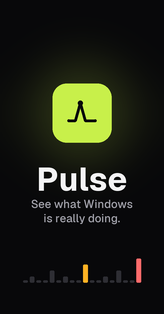
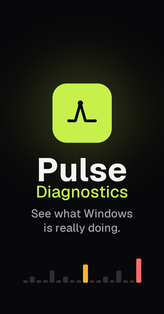
feat: rename the app to Pulse Diagnostics
Pulse Diagnostics is already the Microsoft Store name. The GitHub edition
now uses it too: window and title bar, tray menu, Settings > About, PDF
report header, file metadata (Task Manager), the service display name
(Pulse Diagnostics Service), the installer, its shortcuts and the release
file names (PulseDiagnostics-Setup-<version>-windows-x64.exe).

Internal names stay: Pulse.exe, PulseService, the pipe, ProgramData\Pulse
and the export folders, so upgrades keep settings and history. Setup keeps
the old install folder and removes the old "Pulse" shortcuts only when
they open this install.

Changed region(s): [[0.1829, 0.4873, 0.8232, 0.7452]]

diff --git a/apps/pulse_app/lib/application/background_mode_controller.dart b/apps/pulse_app/lib/application/background_mode_controller.dart
@@ -5,6 +5,7 @@ import 'package:flutter/foundation.dart';
 import 'package:flutter/services.dart';
 import 'package:local_notifier/local_notifier.dart';
 import 'package:path/path.dart' as p;
+import 'package:pulse_protocol/pulse_constants.dart';
 import 'package:pulse_protocol/pulse_wire.dart';
 import 'package:tray_manager/tray_manager.dart';
 import 'package:window_manager/window_manager.dart';
@@ -207,7 +208,7 @@ class BackgroundModeController extends ChangeNotifier
       trayManager.addListener(this);
       final icon = _resolveTrayIconPath();
       await trayManager.setIcon(icon);
-      await trayManager.setToolTip('Pulse Diagnostics');
+      await trayManager.setToolTip(kProductName);
       await _rebuildTrayMenu();
       _trayReady = true;
     } catch (e) {
@@ -247,7 +248,7 @@ class BackgroundModeController extends ChangeNotifier
     if (!Platform.isWindows) return;
     final menu = Menu(
       items: [
-        MenuItem(key: 'open', label: 'Open Pulse'),
+        MenuItem(key: 'open', label: 'Open $kProductName'),
         MenuItem.separator(),
         MenuItem(key: 'dashboard', label: 'Dashboard'),
         MenuItem(key: 'health', label: 'System Health'),
@@ -269,7 +270,7 @@ class BackgroundModeController extends ChangeNotifier
           checked: settings.backgroundMode,
         ),
         MenuItem.separator(),
-        MenuItem(key: 'exit', label: 'Exit Pulse'),
+        MenuItem(key: 'exit', label: 'Exit $kProductName'),
       ],
     );
     try {

diff --git a/apps/pulse_app/lib/main.dart b/apps/pulse_app/lib/main.dart
@@ -3,6 +3,7 @@ import 'dart:ui';
 import 'package:flutter/material.dart';
 import 'package:flutter_acrylic/flutter_acrylic.dart';
 import 'package:provider/provider.dart';
+import 'package:pulse_protocol/pulse_constants.dart';
 import 'package:window_manager/window_manager.dart';
 
 import 'app/pulse_app.dart';
@@ -25,10 +26,10 @@ Future<void> main(List<String> args) async {
     backgroundColor: Colors.transparent,
     skipTaskbar: false,
     titleBarStyle: TitleBarStyle.hidden,
-    title: 'Pulse',
+    title: kProductName,
     windowButtonVisibility: false,
   );
-  await windowManager.setTitle('Pulse');
+  await windowManager.setTitle(kProductName);
   await windowManager.waitUntilReadyToShow(windowOptions);
 
   final services = await AppServices.create();

diff --git a/apps/pulse_app/lib/presentation/components/pulse_title_bar.dart b/apps/pulse_app/lib/presentation/components/pulse_title_bar.dart
@@ -1,5 +1,6 @@
 import 'package:flutter/material.dart';
 import 'package:lucide_icons_flutter/lucide_icons.dart';
+import 'package:pulse_protocol/pulse_constants.dart';
 import 'package:window_manager/window_manager.dart';
 
 import '../../app/theme/pulse_theme.dart';
@@ -78,7 +79,7 @@ class _PulseTitleBarState extends State<PulseTitleBar> with WindowListener {
         child: Row(
           children: [
             Text(
-              'Pulse',
+              kProductName,
               style: Theme.of(context).textTheme.labelMedium?.copyWith(
                     color: _focused
                         ? PulseTokens.textSecondary

diff --git a/apps/pulse_app/lib/app/pulse_app.dart b/apps/pulse_app/lib/app/pulse_app.dart
@@ -1,5 +1,6 @@
 import 'package:flutter/material.dart';
 import 'package:provider/provider.dart';
+import 'package:pulse_protocol/pulse_constants.dart';
 
 import '../application/settings_controller.dart';
 import '../presentation/onboarding/welcome_page.dart';
@@ -25,7 +26,7 @@ class PulseApp extends StatelessWidget {
     final dark = PulseTheme.dark(accent: accent);
 
     return MaterialApp(
-      title: 'Pulse',
+      title: kProductName,
       debugShowCheckedModeBanner: false,
       theme: light,
       darkTheme: dark,

diff --git a/apps/pulse_app/lib/presentation/components/pulse_nav_rail.dart b/apps/pulse_app/lib/presentation/components/pulse_nav_rail.dart
@@ -1,5 +1,6 @@
 import 'package:flutter/material.dart';
 import 'package:flutter_svg/flutter_svg.dart';
+import 'package:pulse_protocol/pulse_constants.dart';
 
 import '../../app/theme/pulse_theme.dart';
 import 'safe_hover.dart';
@@ -66,7 +67,7 @@ class PulseNavRail extends StatelessWidget {
       child: Column(
         children: [
           Semantics(
-            label: 'Pulse',
+            label: kProductName,
             image: true,
             child: Container(
               width: _markTileSize,

diff --git a/apps/pulse_app/lib/presentation/settings/settings_page.dart b/apps/pulse_app/lib/presentation/settings/settings_page.dart
@@ -1070,7 +1070,7 @@ class _SettingsPageState extends State<SettingsPage> {
             children: [
               _SettingsRow(
                 icon: LucideIcons.info,
-                title: 'Pulse version',
+                title: '$kProductName version',
                 subtitle: kAppVersion,
                 trailing: const PulseBadge(
                   label: 'Bootstrap',

diff --git a/apps/pulse_app/lib/presentation/reports/report_exporter.dart b/apps/pulse_app/lib/presentation/reports/report_exporter.dart
@@ -236,7 +236,7 @@ class ReportExporter {
           crossAxisAlignment: pw.CrossAxisAlignment.start,
           children: [
             pw.Text(
-              'Pulse',
+              kProductName,
               style: pw.TextStyle(
                 fontSize: 11,
                 fontWeight: pw.FontWeight.bold,

diff --git a/shared/pulse_protocol/dart/lib/pulse_constants.dart b/shared/pulse_protocol/dart/lib/pulse_constants.dart
@@ -1,6 +1,6 @@
 /// Shared Dart constants matching pulse/constants.hpp
 
-const String kProductName = 'Pulse';
+const String kProductName = 'Pulse Diagnostics';
 const String kServiceName = 'PulseService';
 const String kPipeName = r'\\.\pipe\PulseService';
 const String kAppVersion = '1.6.0';

diff --git a/service/pulse_service/src/service_core/service_core.cpp b/service/pulse_service/src/service_core/service_core.cpp
@@ -3,6 +3,7 @@
 #include "collector/event_engine.hpp"
 #include "logging/logger.hpp"
 #include "pulse/constants.hpp"
+#include "windows/wevt_helpers.hpp"
 
 #include <atomic>
 #include <iostream>
@@ -173,6 +174,7 @@ int InstallService() {
   // Quote the image path: an unquoted path with spaces (C:\Program Files\...)
   // makes the SCM probe C:\Program.exe first (unquoted service path).
   const std::wstring binary_path = L"\"" + std::wstring(path) + L"\"";
+  const std::wstring display_name = wevt::Utf8ToWide(kServiceDisplayName);
 
   SC_HANDLE scm = OpenSCManagerW(nullptr, nullptr, SC_MANAGER_ALL_ACCESS);
   if (!scm) {
@@ -186,7 +188,8 @@ int InstallService() {
     if (!ChangeServiceConfigW(svc, SERVICE_WIN32_OWN_PROCESS, SERVICE_AUTO_START,
                               SERVICE_ERROR_NORMAL, binary_path.c_str(), nullptr,
                               nullptr, nullptr,
-                              L"NT AUTHORITY\\LocalService", nullptr, L"Pulse")) {
+                              L"NT AUTHORITY\\LocalService", nullptr,
+                              display_name.c_str())) {
       const DWORD err = GetLastError();
       CloseServiceHandle(svc);
       CloseServiceHandle(scm);
@@ -195,7 +198,7 @@ int InstallService() {
     }
   } else {
     svc = CreateServiceW(
-        scm, L"PulseService", L"Pulse", SERVICE_ALL_ACCESS,
+        scm, L"PulseService", display_name.c_str(), SERVICE_ALL_ACCESS,
         SERVICE_WIN32_OWN_PROCESS, SERVICE_AUTO_START, SERVICE_ERROR_NORMAL,
         binary_path.c_str(), nullptr, nullptr, nullptr, L"NT AUTHORITY\\LocalService",
         nullptr);
@@ -208,7 +211,7 @@ int InstallService() {
   }
 
   SERVICE_DESCRIPTIONW desc{};
-  wchar_t text[] = L"Read-only Windows diagnostics collector for Pulse";
+  wchar_t text[] = L"Read-only Windows diagnostics collector for Pulse Diagnostics";
   desc.lpDescription = text;
   ChangeServiceConfig2W(svc, SERVICE_CONFIG_DESCRIPTION, &desc);
 

diff --git a/tools/installer/make_wizard_images.py b/tools/installer/make_wizard_images.py
@@ -91,11 +91,13 @@ def side_image(scale):
 
     draw = ImageDraw.Draw(img)
     title_font = ImageFont.truetype(str(FONTS / "Geist-Bold.ttf"), round(w * s * 0.2))
+    name_font = ImageFont.truetype(str(FONTS / "Geist-Medium.ttf"), round(w * s * 0.1))
     tag_font = ImageFont.truetype(str(FONTS / "Geist-Medium.ttf"), round(w * s * 0.068))
-    draw.text((w * s / 2, h * s * 0.57), "Pulse", font=title_font, fill=TEXT_PRIMARY, anchor="mm")
+    draw.text((w * s / 2, h * s * 0.54), "Pulse", font=title_font, fill=TEXT_PRIMARY, anchor="mm")
+    draw.text((w * s / 2, h * s * 0.61), "Diagnostics", font=name_font, fill=LIME, anchor="mm")
     for i, line in enumerate(("See what Windows", "is really doing.")):
         draw.text(
-            (w * s / 2, h * s * (0.65 + i * 0.045)),
+            (w * s / 2, h * s * (0.68 + i * 0.045)),
             line,
             font=tag_font,
             fill=TEXT_SECONDARY,

diff --git a/shared/pulse_common/include/pulse/constants.hpp b/shared/pulse_common/include/pulse/constants.hpp
@@ -5,9 +5,9 @@
 
 namespace pulse {
 
-constexpr const char* kProductName = "Pulse";
+constexpr const char* kProductName = "Pulse Diagnostics";
 constexpr const char* kServiceName = "PulseService";
-constexpr const char* kServiceDisplayName = "Pulse";
+constexpr const char* kServiceDisplayName = "Pulse Diagnostics Service";
 constexpr const char* kPipeName = "\\\\.\\pipe\\PulseService";
 constexpr const char* kServiceVersion = "1.6.0";
 constexpr const char* kAppVersion = "1.6.0";

diff --git a/apps/pulse_app/windows/runner/main.cpp b/apps/pulse_app/windows/runner/main.cpp
@@ -51,7 +51,7 @@ int APIENTRY wWinMain(_In_ HINSTANCE instance, _In_opt_ HINSTANCE prev,
   FlutterWindow window(project);
   Win32Window::Point origin(10, 10);
   Win32Window::Size size(1440, 900);
-  if (!window.Create(L"Pulse", origin, size)) {
+  if (!window.Create(L"Pulse Diagnostics", origin, size)) {
     return EXIT_FAILURE;
   }
   window.SetQuitOnClose(true);
